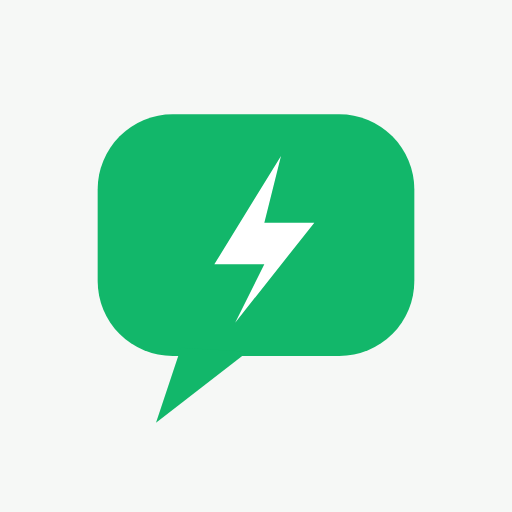
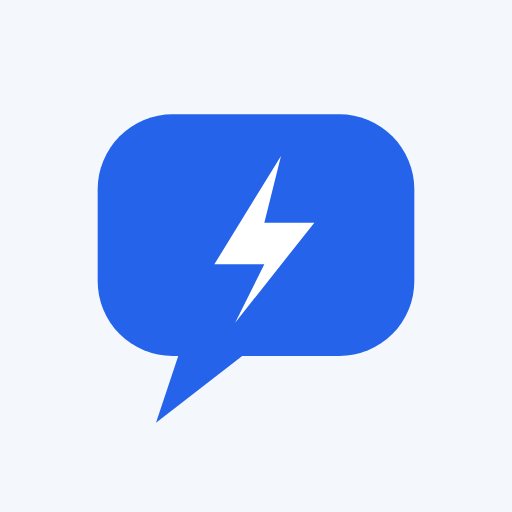
script

Changed region(s): [[0.1875, 0.2188, 0.8125, 0.8125]]

diff --git a/src/components/RelayApp.tsx b/src/components/RelayApp.tsx
@@ -199,7 +199,7 @@ function Rail({ r }: { r: R }) {
   );
   return (
     <nav className="rail">
-      <div className="logo"><BoltMark size={32} /></div>
+      <div className="logo"><BoltMark size={42} tight /></div>
       {btn('dialer', 'Workspace', <path d="M22 16.9v3a2 2 0 01-2.2 2 19.8 19.8 0 01-8.6-3 19.5 19.5 0 01-6-6 19.8 19.8 0 01-3-8.6A2 2 0 014.1 2h3a2 2 0 012 1.7c.1 1 .4 1.9.7 2.8a2 2 0 01-.5 2.1L8.1 9.9a16 16 0 006 6l1.3-1.3a2 2 0 012.1-.4c.9.3 1.8.6 2.8.7a2 2 0 011.7 2z" />, 'Dialer')}
       <button className={r.view === 'inbox' ? 'on' : ''} title="Inbox" onClick={() => r.setView('inbox')} style={{ position: 'relative' }}>
         <svg viewBox="0 0 24 24" fill="none" stroke="currentColor" strokeWidth="2"><path d="M4 4h16v16H4z" /><path d="M4 9h5l2 3h2l2-3h5" /></svg>
@@ -1450,37 +1450,168 @@ function TimelineItem({ h }: { h: Activity }) {
   );
 }
 
+// ── Interactive cold-call script — tap how the prospect responds, it branches ─
+// A tiny state machine: each node is a script beat; its choice chips reveal the
+// next beat below (the path stays visible so you can read back up the call).
+// New lead in the dialer = fresh script from the top.
+type ScriptNode = {
+  title: string;
+  lines: { who: 'you' | 'them'; text: string }[];
+  ask?: string;                                    // the green closing ask
+  choices?: { label: string; to: string }[];       // how they responded
+  book?: boolean;                                  // offer 📅 book-the-Zoom
+  end?: string;                                    // wrap-up coaching note
+};
+const SCRIPT_NODES: Record<string, ScriptNode> = {
+  open: {
+    title: 'The open',
+    lines: [
+      { who: 'you', text: 'Hey, what time do you close tonight?' },
+      { who: 'them', text: '[answer]' },
+      { who: 'you', text: 'Nice. When a new client calls after hours, or while you’re in the chair — does that just go to voicemail?' },
+      { who: 'them', text: '[answer]' },
+      { who: 'you', text: 'Got it. I’m curious — have you guys ever looked at a virtual receptionist that just catches the calls you can’t get to?' },
+    ],
+    choices: [
+      { label: 'Owner — “yes / we’ve thought about it”', to: 'owner_yes' },
+      { label: 'Owner — “no / not really”', to: 'owner_no' },
+      { label: 'Not the person', to: 'not_person' },
+    ],
+  },
+  owner_yes: {
+    title: 'Owner · open to it',
+    lines: [
+      { who: 'you', text: 'Cool. Missed calls get picked up before voicemail by our virtual receptionist — she knows your salon and can get the client a booking link. That’s been helping salons turn missed calls into busier schedules for their commission team.' },
+    ],
+    ask: 'Are you opposed to taking a look on a quick 15-minute Zoom call right now?',
+    book: true,
+    choices: [{ label: 'They pushed back', to: 'owner_no' }],
+  },
+  owner_no: {
+    title: 'Owner · not really',
+    lines: [
+      { who: 'you', text: 'No worries. Wasn’t trying to sell you. I only ask because the salons that try it usually see those missed calls turn into booked appointments for the commission team.' },
+    ],
+    ask: 'Is there another day that would make more sense to take a quick look?',
+    book: true,
+    end: 'If they name a day, book it on the spot — otherwise snooze the lead to that day so it comes back due.',
+  },
+  not_person: {
+    title: 'Not the person',
+    lines: [{ who: 'you', text: 'No worries. Are you a commission stylist, or do you rent a booth?' }],
+    choices: [
+      { label: 'Commission stylist', to: 'commission' },
+      { label: 'Booth renter', to: 'booth' },
+    ],
+  },
+  commission: {
+    title: 'Commission stylist',
+    lines: [{ who: 'you', text: 'Gotcha. Do you ever have gaps the owner would want to fill for the team?' }],
+    choices: [
+      { label: '“Yes, we get gaps”', to: 'commission_gaps' },
+      { label: '“No / we stay booked”', to: 'commission_booked' },
+    ],
+  },
+  commission_gaps: {
+    title: 'Has gaps → route to owner',
+    lines: [],
+    ask: 'That’s usually where missed calls hurt. Is the owner the right person for a 15-minute Zoom, or who should I ask for?',
+    end: 'Get the owner’s name and the best time to reach them — drop it in the contact + a note, then snooze to that day.',
+  },
+  commission_booked: {
+    title: 'Stays booked → route to owner',
+    lines: [],
+    ask: 'Nice. Who handles the phones — the owner?',
+    end: 'Get the owner’s name — save it on the contact and call back asking for them.',
+  },
+  booth: {
+    title: 'Booth renter',
+    lines: [{ who: 'you', text: 'Do you book your own appointments?' }],
+    choices: [
+      { label: '“Yes, I book my own”', to: 'booth_own' },
+      { label: '“No — the salon books”', to: 'booth_salon' },
+    ],
+  },
+  booth_own: {
+    title: 'Books their own → pitch text-back',
+    lines: [
+      { who: 'you', text: 'When you miss a call mid-client, what happens today?' },
+      { who: 'them', text: '[answer]' },
+      { who: 'you', text: 'Got it. For booth renters we usually do something simpler than a full receptionist — missed-call text-back. You keep your same number. The second you miss a call, the client gets a text with your booking link so they book you instead of the next stylist. About 3 minutes to set up, $49 a month.' },
+    ],
+    ask: 'Are you opposed to taking a look on a quick 15-minute Zoom call right now?',
+    book: true,
+    choices: [{ label: 'They shut it down', to: 'booth_shutdown' }],
+  },
+  booth_shutdown: {
+    title: 'Shut it down · soft close',
+    lines: [
+      { who: 'you', text: 'No worries. Wasn’t trying to sell you. Most booth renters who try it just stop losing the clients that call while they’re with someone.' },
+    ],
+    ask: 'Is there another day that would make more sense to take a quick look?',
+    book: true,
+    end: 'If they name a day, book it — otherwise snooze the lead to that day.',
+  },
+  booth_salon: {
+    title: 'Salon books → route to owner',
+    lines: [],
+    ask: 'Owner’s probably better. Who should I ask for?',
+    end: 'Get the owner’s name — save it on the contact and call back asking for them.',
+  },
+};
+
 function ScriptPanel({ lead }: { lead: Lead }) {
+  const [path, setPath] = useState<string[]>(['open']);
+  const bodyRef = useRef<HTMLDivElement>(null);
+  useEffect(() => { setPath(['open']); }, [lead.id]);          // fresh call, fresh script
+  useEffect(() => {
+    if (path.length > 1) bodyRef.current?.lastElementChild?.scrollIntoView({ behavior: 'smooth', block: 'nearest' });
+  }, [path]);
+  // Picking a response at step i prunes anything after it, so re-picking an
+  // earlier branch mid-call just rewrites the rest of the path.
+  const pick = (i: number, to: string) => setPath((p) => [...p.slice(0, i + 1), to]);
+  const bookName = lead.contact?.name && lead.contact.name !== '—' ? lead.contact.name : lead.salon;
   return (
     <div className="ws-right">
-      <div className="rp-head"><div className="ic">{Icon.flow}</div><div><div className="nm">Discovery call script</div></div></div>
-      <div className="rp-body">
-
-        <div className="script-step"><div className="sn">01 — CLOSING TIME</div>
-          <span className="lbl">Casual open</span>
-          <div className="say">&quot;Hi, I was just wondering what time you guys close?&quot;</div>
-          <div className="aside">Let them answer.</div></div>
-
-        <div className="script-step"><div className="sn">02 — AFTER-HOURS</div>
-          <div className="say">&quot;Got it. So if I call after that… does it go to voicemail, or does someone still pick up?&quot;</div>
-          <div className="aside">Let them answer.</div>
-          <div className="branch"><span className="q">If they ask &ldquo;what is this about?&rdquo;</span>
-            <div className="say">&quot;I was calling to see how you&apos;re currently handling your overflow and after-hours calls.&quot;</div></div>
-        </div>
-
-        <div className="script-step"><div className="sn">03 — THE QUESTION</div>
-          <div className="aside">Match their answer, then land the same question:</div>
-          <div className="branch"><span className="q">&ldquo;They go to voicemail.&rdquo; &nbsp;/&nbsp; &ldquo;I answer them.&rdquo;</span>
-            <div className="say">&quot;I&apos;m not sure if this would be applicable, but… have you considered using a voice agent to help answer those calls? Have you seen the new voice technology out there?&quot;</div></div>
-          <div className="branch"><span className="q">&ldquo;I have someone who answers.&rdquo;</span>
-            <div className="say">&quot;Are you paying this person to be on call?&quot;</div>
-            <div className="say">&quot;…have you considered using a voice agent to help answer those calls? Have you seen the new voice technology out there?&quot;</div></div>
-        </div>
-
-        <div className="script-step ask"><div className="sn">04 — THE ASK · BOOK THE DEMO</div>
-          <div className="say">&quot;My goal isn&apos;t to sell you anything today. I actually put together a quick demo of how this would work for {lead.salon} — could we grab 15 minutes so I can walk you through it and you can hear it live? I&apos;ve got a couple of times open this week.&quot;</div>
-          <div className="aside">Book it on the spot — hit 📅 Book demo up top to lock the time in Calendly.</div></div>
-
+      <div className="rp-head">
+        <div className="ic">{Icon.flow}</div>
+        <div><div className="nm">Cold-call script</div><div className="sp-sub">Tap how they respond — it branches</div></div>
+        {path.length > 1 && <button className="btn sm sp-restart" onClick={() => setPath(['open'])}>↺ Restart</button>}
+      </div>
+      <div className="rp-body" ref={bodyRef}>
+        {path.map((id, i) => {
+          const n = SCRIPT_NODES[id];
+          if (!n) return null;
+          const chosen = path[i + 1];
+          return (
+            <div key={`${id}-${i}`} className="script-step">
+              <div className="sn">{String(i + 1).padStart(2, '0')} — {n.title.toUpperCase()}</div>
+              {n.lines.map((l, j) => (l.who === 'you'
+                ? <div key={j} className="say">&quot;{l.text}&quot;</div>
+                : <div key={j} className="aside">Them: {l.text} — let them talk.</div>))}
+              {n.ask && (
+                <div className="branch"><span className="q">The ask</span>
+                  <div className="say">&quot;{n.ask}&quot;</div></div>
+              )}
+              {n.book && !chosen && (
+                <button className="btn primary sm sp-book"
+                  onClick={() => openCalendly({ name: bookName, email: lead.email, leadId: lead.id })}>
+                  📅 They&apos;re in — book the Zoom
+                </button>
+              )}
+              {n.choices && (
+                <div className="sp-choices">
+                  {n.choices.map((c) => (
+                    <button key={c.to}
+                      className={`sp-chip ${chosen === c.to ? 'on' : chosen ? 'dim' : ''}`}
+                      onClick={() => pick(i, c.to)}>{c.label}</button>
+                  ))}
+                </div>
+              )}
+              {n.end && !chosen && <div className="aside sp-end">{n.end}</div>}
+            </div>
+          );
+        })}
       </div>
     </div>
   );

diff --git a/src/app/globals.css b/src/app/globals.css
@@ -1248,3 +1248,17 @@ tr.row-sel td{background:var(--accent-soft,#e6efff)}
 
 /* Bolt Bubble mark replaces the blue "R" tiles — let the mark be the logo */
 .rail .logo, .auth-logo, .book-logo { background: transparent !important; box-shadow: none !important; }
+
+/* Bigger Bolt Bubble in the rail (Seth, 8/22) — the mark deserves the space */
+.rail .logo { width: 44px; height: 44px; }
+
+/* Interactive cold-call script — response chips */
+.sp-sub { font-size: 11px; color: var(--ink3, #9aa8a0); }
+.sp-restart { margin-left: auto; }
+.sp-choices { display: flex; flex-wrap: wrap; gap: 7px; margin-top: 10px; }
+.sp-chip { border: 1.5px solid var(--line); background: #fff; border-radius: 20px; padding: 7px 13px; font-size: 12px; font-weight: 600; color: var(--ink2); cursor: pointer; text-align: left; transition: border-color .12s, opacity .12s; }
+.sp-chip:hover { border-color: var(--accent, #2563eb); color: var(--accent-ink, #2563eb); }
+.sp-chip.on { background: var(--accent, #2563eb); border-color: var(--accent, #2563eb); color: #fff; }
+.sp-chip.dim { opacity: 0.4; }
+.sp-book { margin-top: 10px; }
+.sp-end { margin-top: 8px; font-style: italic; }

diff --git a/src/components/Logo.tsx b/src/components/Logo.tsx
@@ -1,10 +1,13 @@
 // Relay brand mark — the "Bolt Bubble": a speech bubble carrying a lightning
-// bolt. Conversations, fast. Green (#12b76a) with a white bolt.
-export function BoltMark({ size = 34 }: { size?: number }) {
+// bolt. Conversations, fast. App blue (#2563eb) with a white bolt, matching
+// the accent used across the UI.
+// `tight` crops the artboard padding so the bubble fills the box — use it where
+// the mark needs presence at small sizes (the rail logo).
+export function BoltMark({ size = 34, tight = false }: { size?: number; tight?: boolean }) {
   return (
-    <svg width={size} height={size} viewBox="0 0 96 96" fill="none" aria-label="Relay">
-      <rect x="10" y="14" width="76" height="58" rx="18" fill="#12b76a" />
-      <path d="M30 70 L24 88 L46 71 Z" fill="#12b76a" />
+    <svg width={size} height={size} viewBox={tight ? '8 12 80 78' : '0 0 96 96'} fill="none" aria-label="Relay">
+      <rect x="10" y="14" width="76" height="58" rx="18" fill="#2563eb" />
+      <path d="M30 70 L24 88 L46 71 Z" fill="#2563eb" />
       <path d="M54 24 L38 50 L50 50 L43 64 L62 40 L50 40 Z" fill="#ffffff" />
     </svg>
   );
